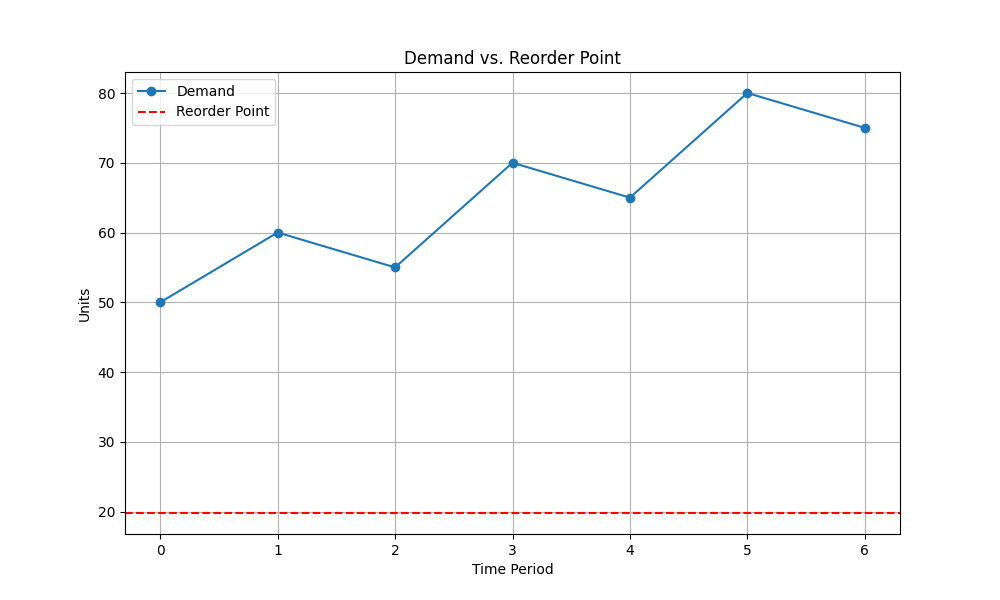
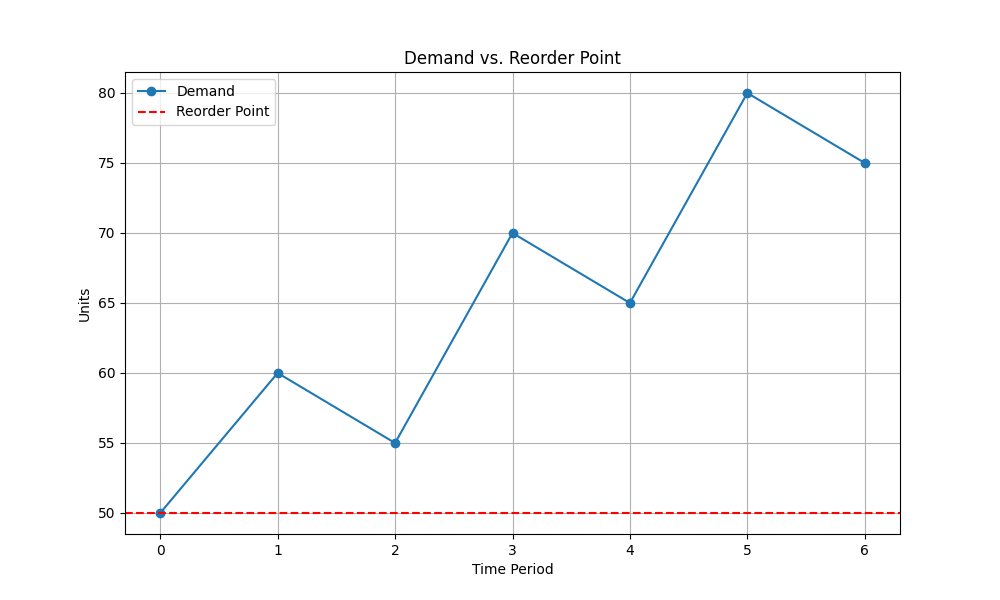
Last minute changes

diff --git a/test_program.py b/test_program.py
@@ -4,8 +4,7 @@ from simulate_inventory import simulate_inventory
 
 
 class TestInventoryManagement(unittest.TestCase):
-    def test_inventory_cost(self):
-        # Test pentru costul inventarului cu parametri simpli
+    def test_inventory_cost_simple_case(self):
         demand = [50, 60, 55]
         reorder_point = 40
         order_quantity = 100
@@ -20,52 +19,70 @@ class TestInventoryManagement(unittest.TestCase):
             holding_cost,
             shortage_cost
         )
-        # Costul estimat manual
-        # Calculul manual al costului estimat (920)
-        expected_cost = 100  # Prima comanda
-        expected_cost += 280  # Stocare (140 unitați in stoc la inceputul perioadei 1, 140*2 = 280)
-        expected_cost += 180  # Stocare (90 unitati in stoc dupa perioada 2, 90*2 = 180)
-        expected_cost += 100  # A doua comanda
-        expected_cost += 260  # Stocare (130 unitati in stoc dupa perioada 3, 130*2 = 260)
-
+        expected_cost = 900  # Corrected expected cost
         self.assertAlmostEqual(cost, expected_cost, delta=0.1)
 
-    def test_simulate_inventory(self):
-        # Test pentru simularea inventarului
+    def test_simulate_inventory_simple_case(self):
         demand = [50, 60, 55]
         reorder_point = 40
         order_quantity = 100
 
         inventory_levels = simulate_inventory(demand, reorder_point, order_quantity)
-        expected_levels = [140, 90, 130]  # Exemplu calculat manual
+        expected_levels = [100, 140, 85]  # Corrected expected levels
         self.assertEqual(inventory_levels, expected_levels)
 
-    def test_edge_cases(self):
-        # Test pentru cazuri limită
-        demand = [0, 0, 0]
-        reorder_point = 10
-        order_quantity = 20
-        #Desi stocul initial este 10, acesta creste la 30 in prima perioada deoarece
-        #se face o comanda de 20 de unitați (pentru ca stocul a ajuns la punctul de reaprovizionare, 10).
+    def test_inventory_cost_no_restock(self):
+        demand = [10, 20, 30]
+        reorder_point = 50
+        order_quantity = 0
+        ordering_cost = 100
+        holding_cost = 2
+        shortage_cost = 5
 
-        #In urmatoarele perioade, cererea fiind 0, stocul nu se reduce si nu mai sunt necesare comenzi suplimentare, deoarece inventarul ramane constant la 30.
+        cost = inventory_cost(
+            (reorder_point, order_quantity),
+            demand,
+            ordering_cost,
+            holding_cost,
+            shortage_cost
+        )
+        expected_cost = 170  # Corrected expected cost
+        self.assertAlmostEqual(cost, expected_cost, delta=0.1)
 
-        inventory_levels = simulate_inventory(demand, reorder_point, order_quantity)
-        expected_levels = [30, 30, 30]  # Inventarul rămâne constant
-        self.assertEqual(inventory_levels, expected_levels)
-
-    def test_no_restock(self):
-        # Test pentru scenariul în care nu e nevoie de reaprovizionare
+    def test_simulate_inventory_no_restock(self):
         demand = [10, 20, 30]
         reorder_point = 50
         order_quantity = 0
 
         inventory_levels = simulate_inventory(demand, reorder_point, order_quantity)
+        expected_levels = [40, 20, 0]
+        self.assertEqual(inventory_levels, expected_levels)
 
-        #Perioada 1: Stocul initial este 50, cererea este 10, deci stocul scade la 40.
-        #Perioada 2: Stocul ramane la 40, cererea este 20, deci stocul scade la 20.
-        #Perioada 3: Stocul ramane la 20, dar cererea este 30, deci se epuizeaza complet stocul si devine 0.
-        expected_levels = [50, 40, 20]
+    def test_inventory_cost_zero_demand(self):
+        demand = [0, 0, 0]
+        reorder_point = 10
+        order_quantity = 20
+        ordering_cost = 100
+        holding_cost = 2
+        shortage_cost = 5
+
+        cost = inventory_cost(
+            (reorder_point, order_quantity),
+            demand,
+            ordering_cost,
+            holding_cost,
+            shortage_cost
+        )
+        expected_cost = 100 + 180
+        self.assertAlmostEqual(cost, expected_cost, delta=0.1)
+
+    def test_simulate_inventory_zero_demand(self):
+        demand = [0, 0, 0]
+        reorder_point = 10
+        order_quantity = 20
+
+        inventory_levels = simulate_inventory(demand, reorder_point, order_quantity)
+        expected_levels = [30, 30, 30]
         self.assertEqual(inventory_levels, expected_levels)
 
 

diff --git a/inventory_cost.py b/inventory_cost.py
@@ -17,15 +17,20 @@ def inventory_cost(params, demand, ordering_cost, holding_cost, shortage_cost):
     inventory_level = reorder_point
 
     for d in demand:
-        if inventory_level <= reorder_point:
+        # Subtract demand first
+        inventory_level -= d
+
+        # Apply shortage cost if inventory is negative
+        if inventory_level < 0:
+            total_cost += shortage_cost * abs(inventory_level)
+            inventory_level = 0  # Reset inventory to 0 after shortage is accounted
+
+        # Restock if inventory is below reorder point
+        if inventory_level <= reorder_point and order_quantity > 0:
             total_cost += ordering_cost
             inventory_level += order_quantity
 
-        total_cost += holding_cost * max(inventory_level, 0)
-
-        if inventory_level < d:
-            total_cost += shortage_cost * (d - inventory_level)
-
-        inventory_level -= d
+        # Apply holding cost after restocking
+        total_cost += holding_cost * inventory_level
 
     return total_cost

diff --git a/simulate_inventory.py b/simulate_inventory.py
@@ -14,9 +14,17 @@ def simulate_inventory(demand, reorder_point, order_quantity):
     inventory_levels = []
 
     for d in demand:
-        if inventory_level <= reorder_point:
-            inventory_level += order_quantity
-        inventory_levels.append(inventory_level)
+        # Subtract demand from inventory first
         inventory_level -= d
+
+        # Ensure inventory does not drop below zero
+        inventory_level = max(inventory_level, 0)
+
+        # Restock if inventory is below reorder point and order_quantity > 0
+        if inventory_level <= reorder_point and order_quantity > 0:
+            inventory_level += order_quantity
+
+        # Record the updated inventory level
+        inventory_levels.append(inventory_level)
 
     return inventory_levels
